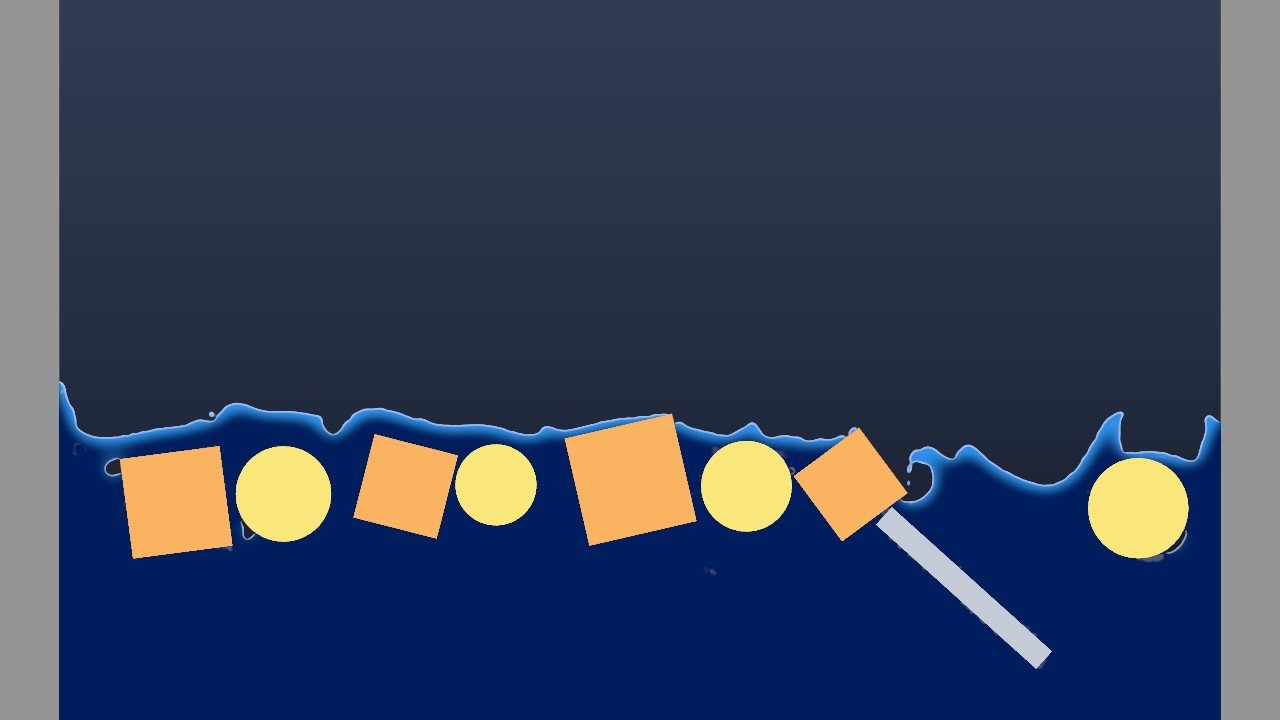
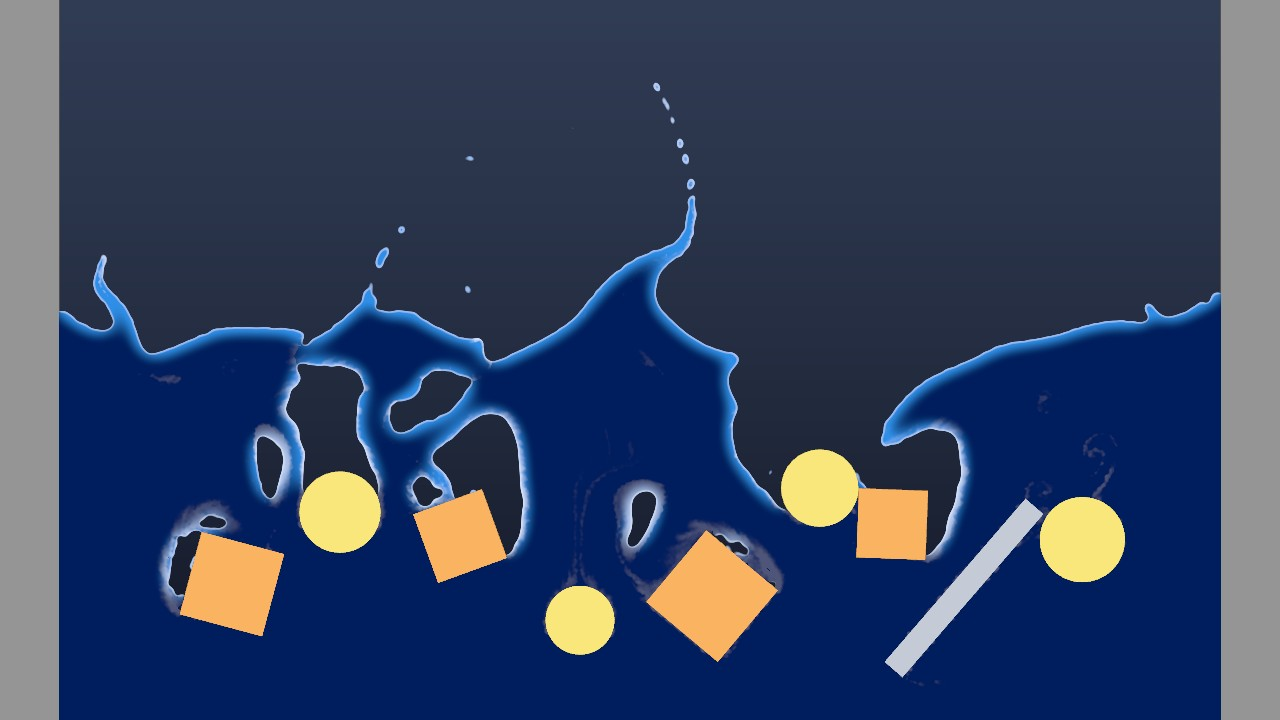
examples: the bodies in liquid-bodies sink to the floor, since the liquid does not push them back; the field that stood in for buoyancy is gone
generated with Claude Code

Changed region(s): [[0.0312, 0.2444, 0.9688, 0.9472], [0.2812, 0.3361, 0.3125, 0.3667]]

diff --git a/docs/penumbra.html b/docs/penumbra.html
@@ -3439,7 +3439,7 @@ claude mcp add penumbra -- C:\penumbra\penumbra-cli.exe --port 9881 mcp
 </li>
 </ol>
 <p><strong>Static obstacles too.</strong> Put the solver's <code>mask</code> and the static mask together in a <a class="ref" href="#tex.composite"><code>tex.composite</code></a> with <code>op</code> maximum, and wire that into <code>obstacles</code>. The bodies' <code>velocity</code> goes into <code>obstacle_velocity</code> alone: it is 0 outside the bodies, so the static obstacles stand still. A <a class="ref" href="#tex.render"><code>tex.render</code></a> of the static geometry in white through the same camera makes a static mask that lines up with what the bodies collide with. Example: <a href="../examples/liquid-bodies/">liquid-bodies</a>.</p>
-<p><strong>One way only.</strong> The bodies push the liquid, but the liquid does not push the bodies. A body falls through a pool as through air, keeps its speed and hits the floor below. The liquid between body and floor then spurts out sideways. The solver's <code>damping</code> slows the bodies, in the air as well. A <a class="ref" href="#physics.field"><code>physics.field</code></a> of type wind that pushes up below the water's surface stands in for buoyancy: stronger than gravity, the bodies float. The liquid-bodies example does both.</p>
+<p><strong>One way only.</strong> The bodies push the liquid, but the liquid does not push the bodies. A body falls through a pool as through air, keeps its speed and hits the floor below. The liquid between body and floor then spurts out sideways. The solver's <code>damping</code> slows the bodies, in the air as well: the liquid-bodies example uses 8, so bodies fall at most 1.2 m/s. To make bodies float, a <a class="ref" href="#physics.field"><code>physics.field</code></a> of type wind that pushes up below the water's surface can stand in for buoyancy: stronger than gravity, the bodies rise.</p>
 <p><strong>Without <code>velocity</code>.</strong> <a class="ref" href="#tex.optical_flow"><code>tex.optical_flow</code></a> on the mask (times 60 at 60 fps) matches a body that slides, but not one that turns, one slower than about 0.05 heights per second, or one at rest after landing. Use the solver's <code>velocity</code>.</p>
 <h5 id="tex.liquid-sand-and-snow">Sand and snow</h5>
 <p>Each emitter has a <code>material</code>: liquid, sand or snow. The <code>fill</code> picture takes <code>fill_material</code>. One node holds all three at once, so water can pour onto a sand heap.</p>

diff --git a/examples/liquid-bodies/README.md b/examples/liquid-bodies/README.md
@@ -1,11 +1,10 @@
 # liquid-bodies
 
-Boxes and balls from `physics.rigid_bodies` drop into a pool of `tex.liquid`, splash, float and
-are lifted out again. A turning bar stirs the water at the right. The bodies push the water as
-they move and turn.
+Boxes and balls from `physics.rigid_bodies` drop into a pool of `tex.liquid`, splash and sink to
+the floor. Every 16 seconds they are lifted out and dropped again. A turning bar stirs the water
+at the right. The bodies push the water as they move and turn.
 
-Look at `/out`. The bodies hang above the pool for the first 3 seconds, then fall. Every 16
-seconds they are lifted out and dropped again.
+Look at `/out`. The bodies hang above the pool for the first 3 seconds, then fall.
 
 - `/boxes` and `/balls` are two groups of `/solver`, a `physics.rigid_bodies` with `plane` `xz`:
   the bodies stay on the wall that `/camera` looks at. Each table of places goes into `table`
@@ -21,23 +20,24 @@ seconds they are lifted out and dropped again.
   `obstacles` of `/solver`, so the bodies stay in the basin. `/walls_mask` draws the same walls
   white through `/camera`. `/solid` puts `/walls_mask` and the bodies' `mask` together and goes
   into `obstacles` of `/liquid`.
-- The liquid does not push the bodies back. `/buoyancy`, a `physics.field` of type `wind`,
-  stands in for that: it pushes up with 14 m/s² below the water's surface, more than gravity,
-  so the bodies float. Its ball of 20 m reaches up to about 1 m across the basin, the pool's
-  surface. `damping` 1.5 on `/solver` slows the bodies as water would, and in the air as well.
 - `/bodies` renders the solver's `out` through `/camera`. `/out` lays `/liquid` over it, the sky
   and the walls in grey.
 
-Try: `strength` on `/buoyancy` (8: the bodies sink slowly; 0: they hit the floor at full speed,
-and the water they squeeze out spurts up to the top of the picture), `rate` on `/turn`, `damping` on `/solver`. Unwire
-`obstacle_velocity` of `/liquid`: the bodies then only take the water's place.
+**The water does not push the bodies back.** A body falls through the pool as through air and
+lands on the floor. `damping` on `/solver` is 8: every body loses that share of its speed per
+second, in the air as well as in the water. A falling body then reaches at most 1.2 m/s. Faster
+bodies hit the floor hard, and the water squeezed out under them spurts up to the top of the
+picture. The pool is 1.35 m deep, and the bodies hang just above it.
 
-It costs about 4.4 ms per frame on an RTX 3090 (power limit 75 %), measured headless at 60 fps
-with a release build. The liquid alone, with the walls and no bodies, takes about 3.2 ms. The
-solver's two pictures take about 0.6 ms. The rest is the liquid taking in a new obstacle picture
+Try: `damping` on `/solver` (1.5 lets the bodies fall fast), `rate` on `/turn`, `rate` on
+`/form`. Unwire `obstacle_velocity` of `/liquid`: the bodies then only take the water's place.
+
+It costs about 5.4 ms per frame on an RTX 3090 (power limit 93 %), measured headless at 60 fps
+with a release build. The liquid alone, with the walls and no bodies, takes about 4.2 ms. The
+solver's two pictures take about 0.7 ms. The rest is the liquid taking in a new obstacle picture
 on every frame.
 
-Not in this example: the water pushing the bodies (the buoyancy above is a stand-in, the same
-everywhere below the surface, wherever the water is), bodies that turn out of the wall, and
-sand. The pages of [tex.liquid](../../docs/nodes/tex.liquid.md#rigid-bodies) and
+Not in this example: the water pushing the bodies (they neither float nor slow down in it), bodies
+that turn out of the wall, and sand. The pages of
+[tex.liquid](../../docs/nodes/tex.liquid.md#rigid-bodies) and
 [physics.rigid_bodies](../../docs/nodes/physics.rigid_bodies.md) explain the pictures.

diff --git a/examples/README.md b/examples/README.md
@@ -38,7 +38,7 @@ saves into it.)
 | [raymarch](raymarch/README.md) | three raymarched looks that follow music: a tunnel, melting shapes and a fractal, chosen with one slider; a built-in beat drives them | `/out` | (for real music: a microphone or line input) |
 | [fluid](fluid/README.md) | a fluid stirred by motion: optical flow and blobs push it, the picture colours it | `/view` | |
 | [liquid](liquid/README.md) | water poured over a word into a basin with a drain, blown by gusts of wind and stirred by a paddle; sand heaps up on a shelf beside it | `/out` | |
-| [liquid-bodies](liquid-bodies/README.md) | boxes and balls from the rigid-body solver drop into a pool, push the water aside and float; a turning bar stirs it; the solver draws the bodies as pictures the liquid takes as moving obstacles | `/out` | |
+| [liquid-bodies](liquid-bodies/README.md) | boxes and balls from the rigid-body solver drop into a pool, push the water aside and sink to the floor; a turning bar stirs it; the solver draws the bodies as pictures the liquid takes as moving obstacles | `/out` | |
 | [music-synthwave](music-synthwave/README.md) | a complete show on one song: 15 elements on two stages, a synthwave world that rolls up into a tunnel at the drop after the break, the arrangement written by one command from the beats and sections found in the file; the song is by Krzna and not under penumbra's licenses | `/out` | speakers or headphones |
 | [projection-onto-objects](projection-onto-objects/README.md) | a relief lit by two projectors from one camera scan: colours and contours by height, a moving sun, tide and snow line; the steps to scan your own object | `/view`, `/out_a` | (to light a real object: two projectors and a camera) |
 | [projector-wall](projector-wall/README.md) | three projectors as one picture on a wall: each projector's share, blend weight, flat field and colour match, measured on a real wall; the steps to measure your own | `/wall`, `/unblended` | (to light a real wall: three projectors and a camera) |

diff --git a/docs/nodes/tex.liquid.md b/docs/nodes/tex.liquid.md
@@ -120,8 +120,9 @@ lines up with what the bodies collide with. Example: [liquid-bodies](../../examp
 **One way only.** The bodies push the liquid, but the liquid does not push the bodies. A body
 falls through a pool as through air, keeps its speed and hits the floor below. The liquid
 between body and floor then spurts out sideways. The solver's `damping` slows the bodies, in the
-air as well. A `physics.field` of type wind that pushes up below the water's surface stands in
-for buoyancy: stronger than gravity, the bodies float. The liquid-bodies example does both.
+air as well: the liquid-bodies example uses 8, so bodies fall at most 1.2 m/s. To make bodies
+float, a `physics.field` of type wind that pushes up below the water's surface can stand in for
+buoyancy: stronger than gravity, the bodies rise.
 
 **Without `velocity`.** `tex.optical_flow` on the mask (times 60 at 60 fps) matches a body that
 slides, but not one that turns, one slower than about 0.05 heights per second, or one at rest
